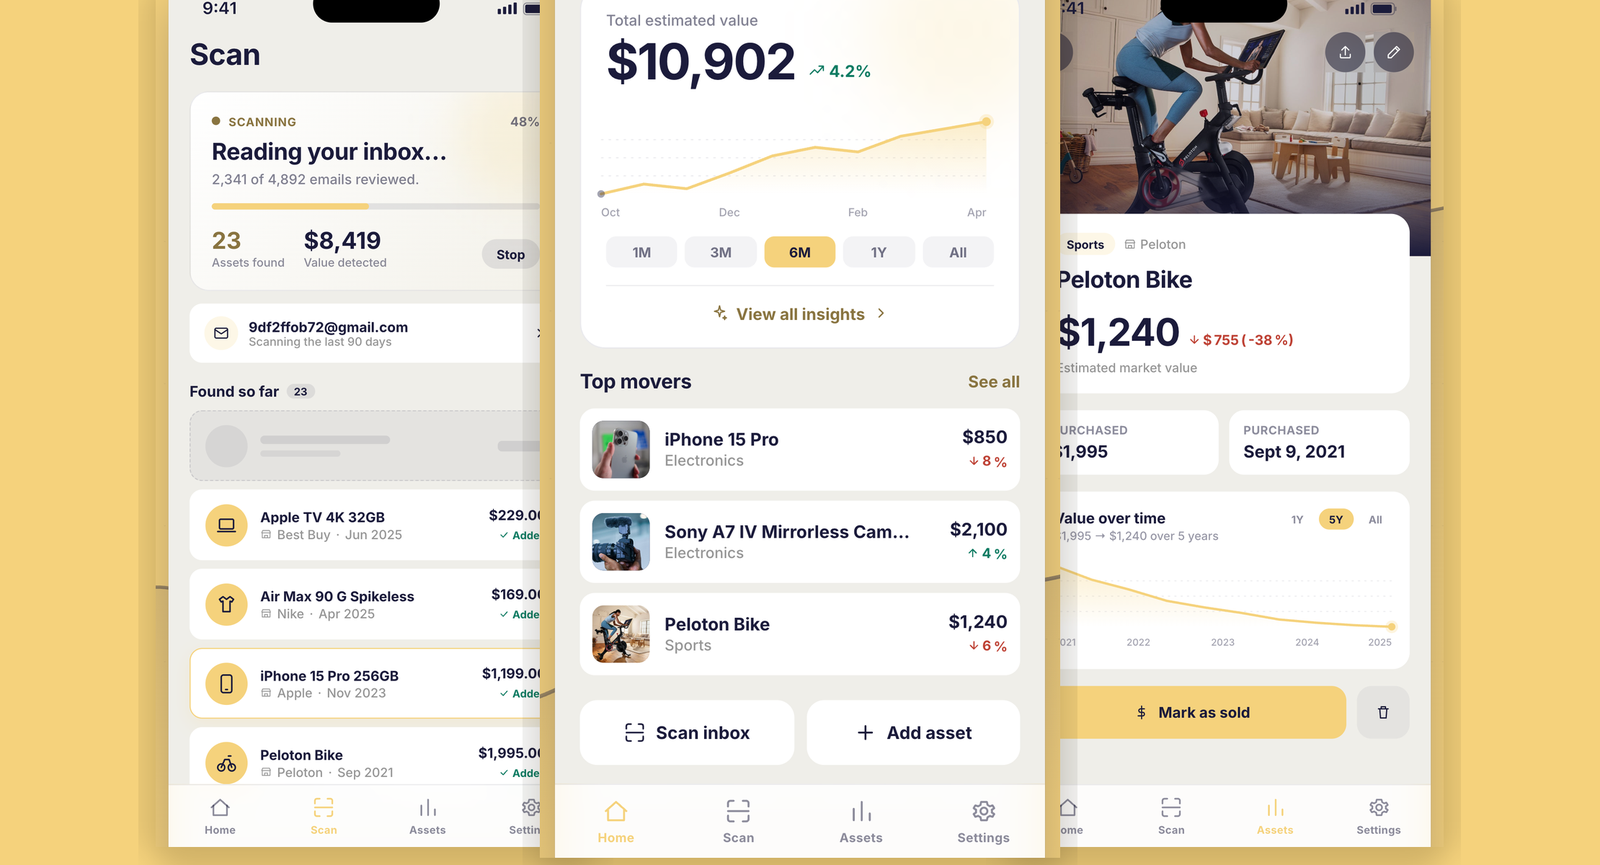
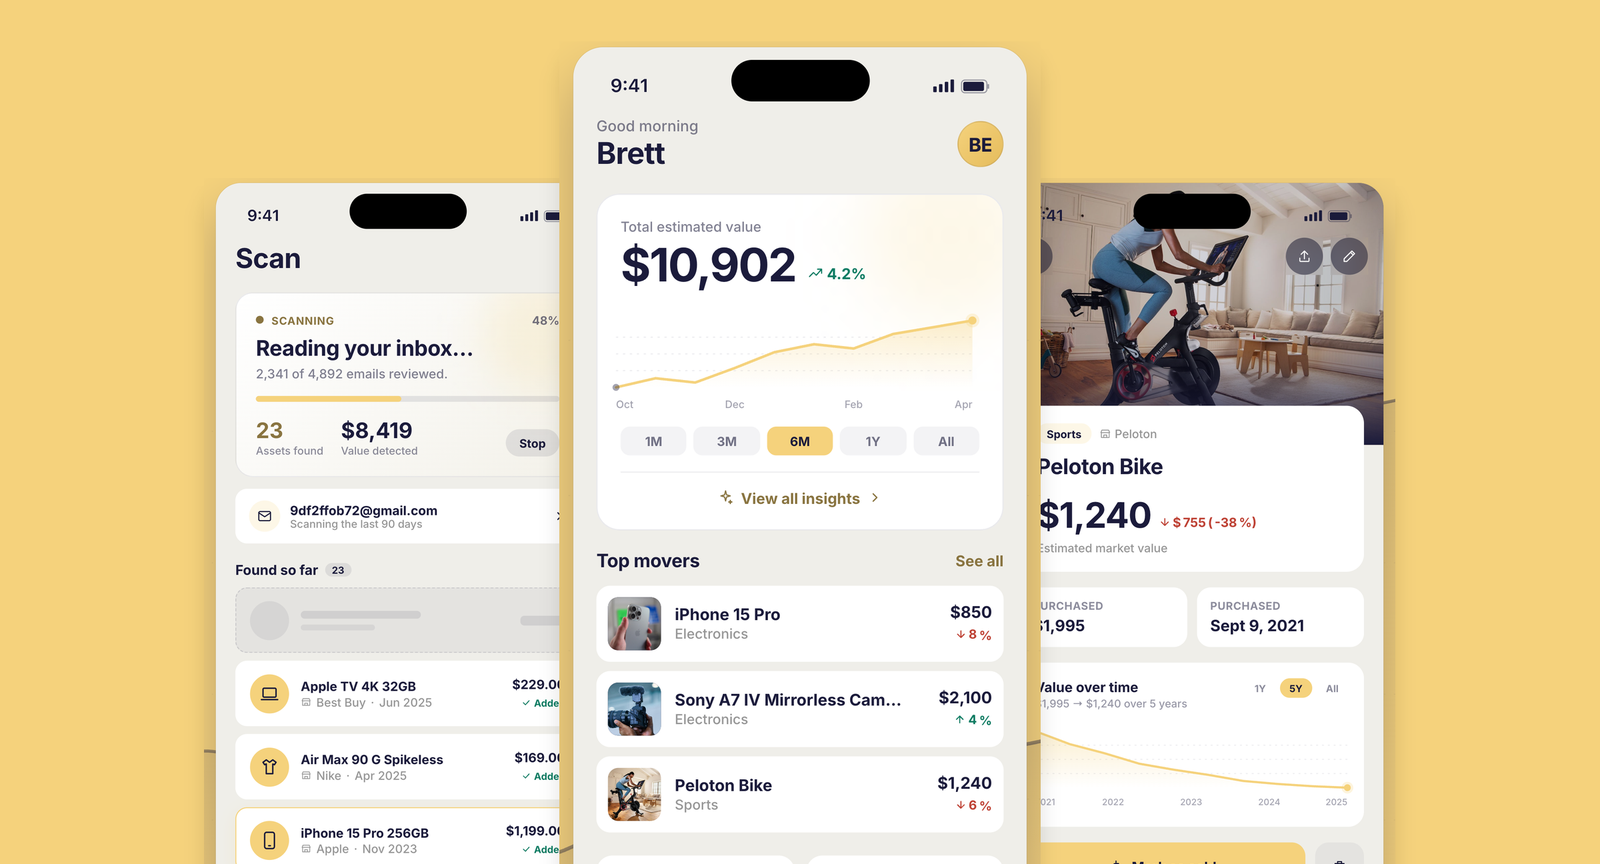
Keep Worthy phone tops in the homepage thumb. (#6)
Recrop the small image from the top of the devices and drop the upward shadow halo so the status bars stay visible instead of being clipped.

diff --git a/src/pages/Home.tsx b/src/pages/Home.tsx
@@ -87,7 +87,13 @@ export function Home() {
                   </div>
                   <p>{project.summary}</p>
                 </div>
-                <div className="work-media">
+                <div
+                  className={
+                    project.gallery === 'app-screens'
+                      ? 'work-media work-media-top'
+                      : 'work-media'
+                  }
+                >
                   <img src={project.cover} alt="" />
                 </div>
               </Link>

diff --git a/src/index.css b/src/index.css
@@ -318,6 +318,10 @@ textarea {
   filter: saturate(0.86);
 }
 
+.work-media-top img {
+  object-position: top center;
+}
+
 .work-row:hover .work-media img {
   filter: none;
 }
